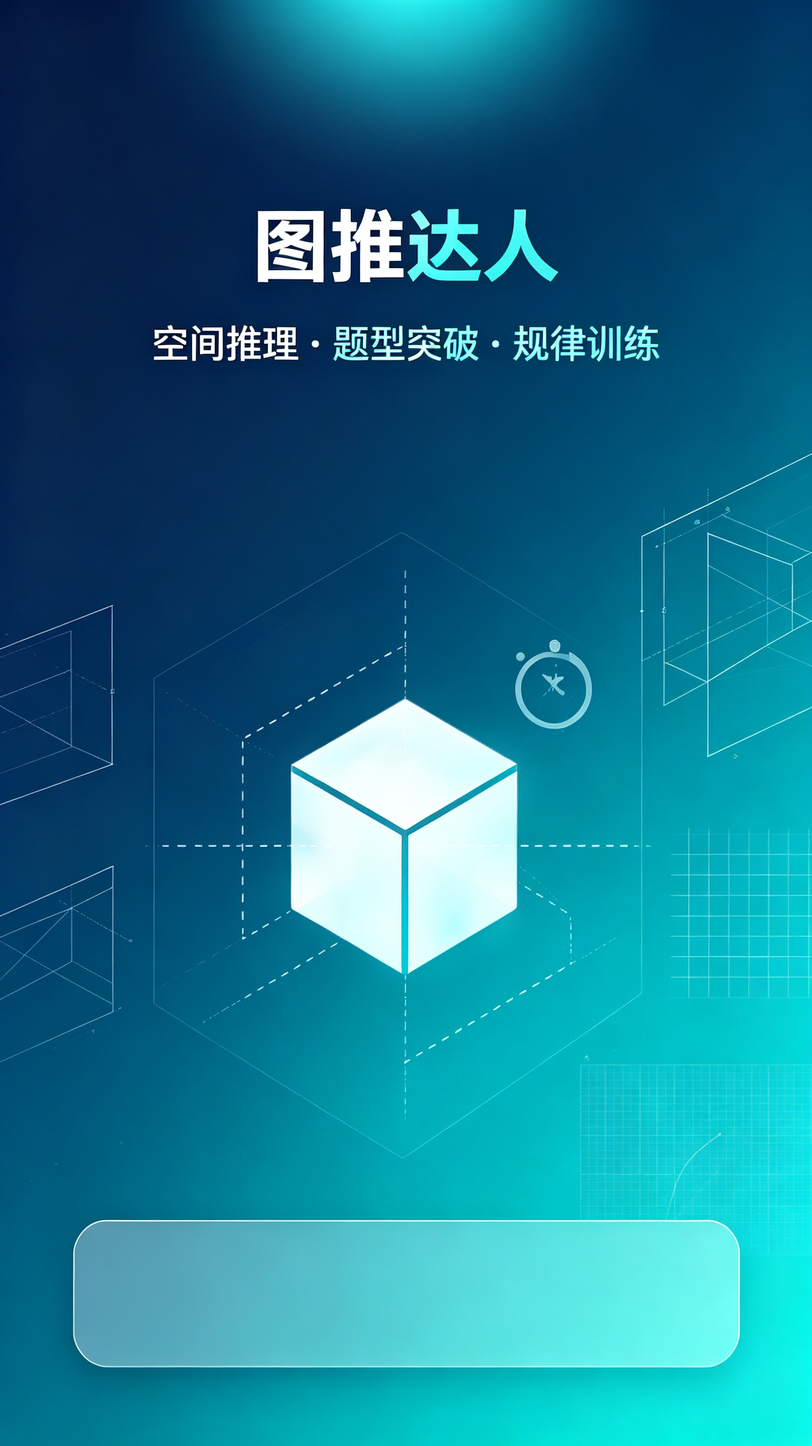
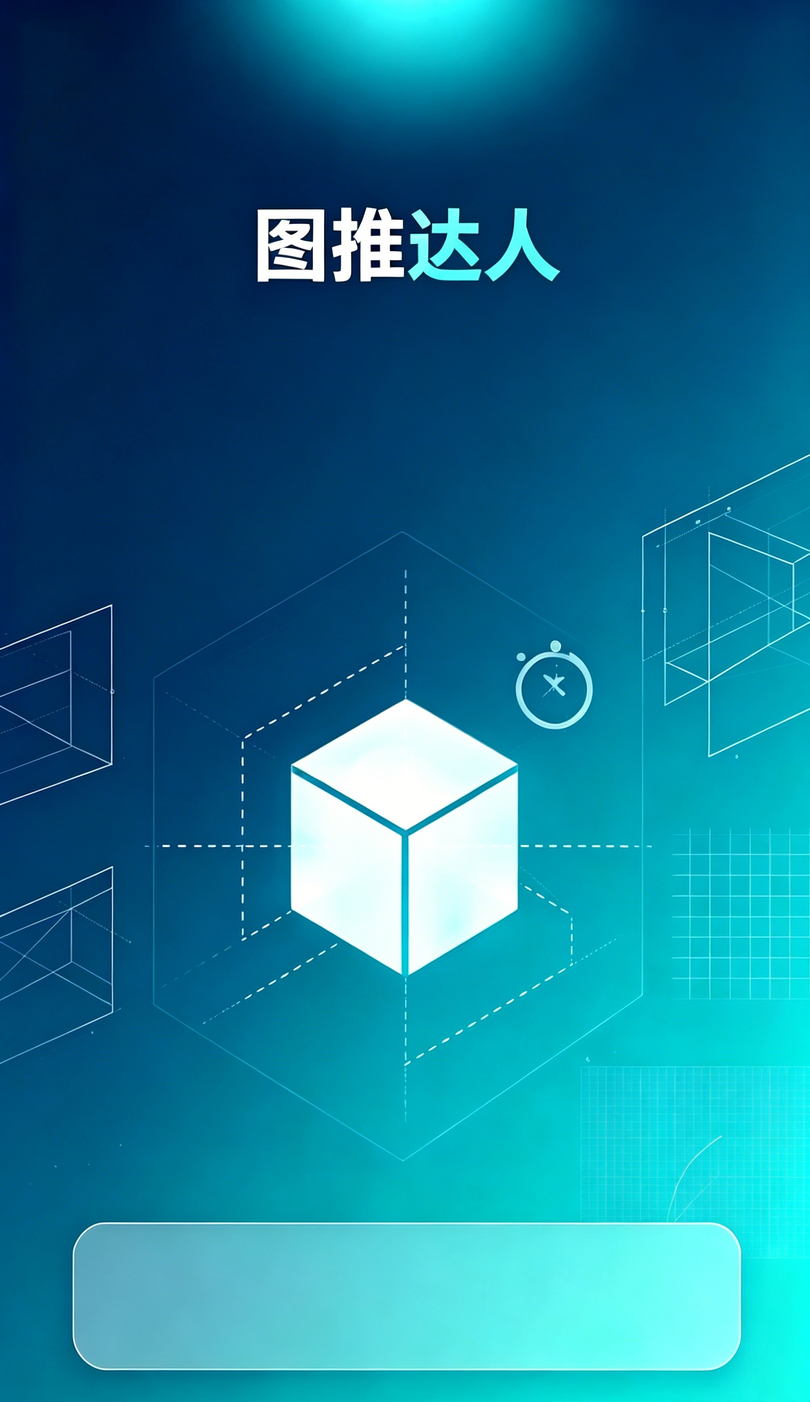
Update

diff --git a/src/pages/home/home.vue b/src/pages/home/home.vue
@@ -1,0 +1,202 @@
+<template>
+  <view class="page">
+    <!-- 全屏背景图 -->
+    <image class="bg" src="/static/images/background-home.jpg" mode="aspectFill"></image>
+
+    <!-- 自定义导航栏：返回 + 标题 -->
+    <view class="navbar" :style="{ paddingTop: statusBarHeight + 'px' }">
+      <view class="navbar-inner">
+        <view class="back" @tap="onBack">
+          <text class="back-arrow">‹</text>
+        </view>
+        <text class="navbar-title">图推达人</text>
+        <view class="back-placeholder"></view>
+      </view>
+    </view>
+
+    <!-- 功能入口：2 列 x 2 行 -->
+    <view class="grid">
+      <view
+        v-for="item in features"
+        :key="item.key"
+        class="grid-item"
+        @tap="onTapFeature(item)"
+      >
+        <image class="feature-icon" :src="item.icon" mode="aspectFit"></image>
+        <text class="feature-label">{{ item.label }}</text>
+        <text class="feature-desc">{{ item.desc }}</text>
+      </view>
+    </view>
+  </view>
+</template>
+
+<script>
+export default {
+  name: 'Home',
+  data() {
+    return {
+      statusBarHeight: 20,
+      features: [
+        {
+          key: 'space',
+          label: '空间推理',
+          desc: '折纸盒 / 立体拼合',
+          icon: '/static/images/icons/icon-space-reasoning.png',
+          url: '/pages/practice/practice?mode=0&category=space'
+        },
+        {
+          key: 'three-view',
+          label: '三视图',
+          desc: '主俯侧 · 视图还原',
+          icon: '/static/images/icons/icon-three-view.png',
+          url: '/pages/practice/practice?mode=0&category=three-view'
+        },
+        {
+          key: 'pattern',
+          label: '规律训练',
+          desc: '平移旋转 · 黑白运算',
+          icon: '/static/images/icons/icon-pattern-training.png',
+          url: '/pages/practice/practice?mode=0&category=pattern'
+        },
+        {
+          key: 'wrong',
+          label: '错题复盘',
+          desc: '薄弱点专项突破',
+          icon: '/static/images/icons/icon-wrong-answers.png',
+          url: '/pages/history/history'
+        }
+      ]
+    };
+  },
+  onLoad() {
+    try {
+      const sys = uni.getSystemInfoSync();
+      this.statusBarHeight = sys.statusBarHeight || 20;
+    } catch (e) {}
+  },
+  methods: {
+    onBack() {
+      uni.navigateBack({ delta: 1 });
+    },
+    onTapFeature(item) {
+      uni.navigateTo({
+        url: item.url,
+        fail: (err) => {
+          console.error('navigateTo fail:', err);
+          uni.showToast({ title: '页面开发中', icon: 'none' });
+        }
+      });
+    }
+  }
+};
+</script>
+
+<style lang="scss" scoped>
+.page {
+  position: relative;
+  width: 100vw;
+  min-height: 100vh;
+  overflow: hidden;
+  background: #0a1f3d;
+}
+
+.bg {
+  position: absolute;
+  top: 0;
+  left: 0;
+  width: 100%;
+  height: 100%;
+  z-index: 0;
+}
+
+/* 自定义导航栏 */
+.navbar {
+  position: relative;
+  z-index: 3;
+}
+
+.navbar-inner {
+  height: 88rpx;
+  display: flex;
+  align-items: center;
+  justify-content: space-between;
+  padding: 0 24rpx;
+}
+
+.back {
+  width: 64rpx;
+  height: 64rpx;
+  display: flex;
+  align-items: center;
+  justify-content: center;
+}
+
+.back-arrow {
+  color: #ffffff;
+  font-size: 56rpx;
+  font-weight: 300;
+  line-height: 1;
+}
+
+.navbar-title {
+  color: #ffffff;
+  font-size: 34rpx;
+  font-weight: 600;
+}
+
+.back-placeholder {
+  width: 64rpx;
+}
+
+/* 功能入口网格 */
+.grid {
+  position: relative;
+  z-index: 2;
+  display: flex;
+  flex-wrap: wrap;
+  justify-content: space-between;
+  padding: 80rpx 40rpx 0;
+  box-sizing: border-box;
+}
+
+.grid-item {
+  width: 300rpx;
+  margin-bottom: 40rpx;
+  padding: 30rpx 20rpx;
+  border-radius: 24rpx;
+  background: rgba(255, 255, 255, 0.08);
+  backdrop-filter: blur(20rpx);
+  -webkit-backdrop-filter: blur(20rpx);
+  border: 1rpx solid rgba(255, 255, 255, 0.15);
+  display: flex;
+  flex-direction: column;
+  align-items: center;
+  transition: transform 0.15s ease;
+
+  &:active {
+    transform: scale(0.96);
+    background: rgba(255, 255, 255, 0.15);
+  }
+}
+
+.feature-icon {
+  width: 120rpx;
+  height: 120rpx;
+  border-radius: 24rpx;
+  margin-bottom: 16rpx;
+}
+
+.feature-label {
+  font-size: 30rpx;
+  font-weight: 600;
+  color: #ffffff;
+  line-height: 1.4;
+}
+
+.feature-desc {
+  margin-top: 6rpx;
+  font-size: 22rpx;
+  color: rgba(255, 255, 255, 0.65);
+  text-align: center;
+}
+</style>

diff --git a/src/pages/index/index.vue b/src/pages/index/index.vue
@@ -6,23 +6,14 @@
     <!-- 状态栏占位 -->
     <view class="status-bar" :style="{ height: statusBarHeight + 'px' }"></view>
 
-    <!-- 功能入口：2 列 x 2 行 -->
-    <view class="grid">
-      <view
-        v-for="item in features"
-        :key="item.key"
-        class="grid-item"
-        @tap="onTapFeature(item.key)"
-      >
-        <image class="feature-icon" :src="item.icon" mode="aspectFit"></image>
-        <text class="feature-label">{{ item.label }}</text>
-        <text class="feature-desc">{{ item.desc }}</text>
-      </view>
+    <!-- 品牌区 -->
+    <view class="brand">
+      <text class="brand-title">图推达人</text>
     </view>
 
-    <!-- 底部 CTA -->
+    <!-- 底部 CTA：进入功能主页 -->
     <view class="cta" @tap="onStart">
-      <text class="cta-text">开始今日练习</text>
+      <text class="cta-text">开启今日练习</text>
     </view>
   </view>
 </template>
@@ -32,33 +23,7 @@ export default {
   name: 'Index',
   data() {
     return {
-      statusBarHeight: 20,
-      features: [
-        {
-          key: 'space',
-          label: '空间推理',
-          desc: '折纸盒 / 立体拼合',
-          icon: '/static/images/icons/icon-space-reasoning.png'
-        },
-        {
-          key: 'three-view',
-          label: '三视图',
-          desc: '主俯侧 · 视图还原',
-          icon: '/static/images/icons/icon-three-view.png'
-        },
-        {
-          key: 'pattern',
-          label: '规律训练',
-          desc: '平移旋转 · 黑白运算',
-          icon: '/static/images/icons/icon-pattern-training.png'
-        },
-        {
-          key: 'wrong',
-          label: '错题复盘',
-          desc: '薄弱点专项突破',
-          icon: '/static/images/icons/icon-wrong-answers.png'
-        }
-      ]
+      statusBarHeight: 20
     };
   },
   onLoad() {
@@ -68,25 +33,13 @@ export default {
     } catch (e) {}
   },
   methods: {
-    onTapFeature(key) {
-      const routeMap = {
-        space: '/src/pages/space/index',
-        'three-view': '/src/pages/three-view/index',
-        pattern: '/src/pages/pattern/index',
-        wrong: '/src/pages/wrong/index'
-      };
-      const url = routeMap[key];
-      if (url) {
-        uni.navigateTo({
-          url,
-          fail: () => uni.showToast({ title: '页面开发中', icon: 'none' })
-        });
-      }
-    },
     onStart() {
       uni.navigateTo({
-        url: '/src/pages/practice/index',
-        fail: () => uni.showToast({ title: '开始练习开发中', icon: 'none' })
+        url: '/pages/home/home',
+        fail: (err) => {
+          console.error('navigateTo home fail:', err);
+          uni.showToast({ title: '页面开发中', icon: 'none' });
+        }
       });
     }
   }
@@ -116,63 +69,27 @@ export default {
   z-index: 2;
 }
 
-.grid {
+.brand {
   position: relative;
   z-index: 2;
   display: flex;
-  flex-wrap: wrap;
-  justify-content: space-between;
-  padding: 120rpx 40rpx 0;
-  box-sizing: border-box;
+  justify-content: center;
+  padding-top: 200rpx;
 }
 
-.grid-item {
-  width: 300rpx;
-  margin-bottom: 40rpx;
-  padding: 30rpx 20rpx;
-  border-radius: 24rpx;
-  background: rgba(255, 255, 255, 0.08);
-  backdrop-filter: blur(20rpx);
-  -webkit-backdrop-filter: blur(20rpx);
-  border: 1rpx solid rgba(255, 255, 255, 0.15);
-  display: flex;
-  flex-direction: column;
-  align-items: center;
-  transition: transform 0.15s ease;
-
-  &:active {
-    transform: scale(0.96);
-    background: rgba(255, 255, 255, 0.15);
-  }
-}
-
-.feature-icon {
-  width: 120rpx;
-  height: 120rpx;
-  border-radius: 24rpx;
-  margin-bottom: 16rpx;
-}
-
-.feature-label {
-  font-size: 30rpx;
-  font-weight: 600;
+.brand-title {
+  font-size: 72rpx;
+  font-weight: 700;
   color: #ffffff;
-  line-height: 1.4;
-}
-
-.feature-desc {
-  margin-top: 6rpx;
-  font-size: 22rpx;
-  color: rgba(255, 255, 255, 0.65);
-  text-align: center;
+  letter-spacing: 8rpx;
 }
 
 .cta {
   position: absolute;
   left: 40rpx;
   right: 40rpx;
-  bottom: calc(60rpx + constant(safe-area-inset-bottom));
-  bottom: calc(60rpx + env(safe-area-inset-bottom));
+  bottom: calc(20rpx + constant(safe-area-inset-bottom));
+  bottom: calc(20rpx + env(safe-area-inset-bottom));
   z-index: 2;
   height: 96rpx;
   border-radius: 48rpx;
